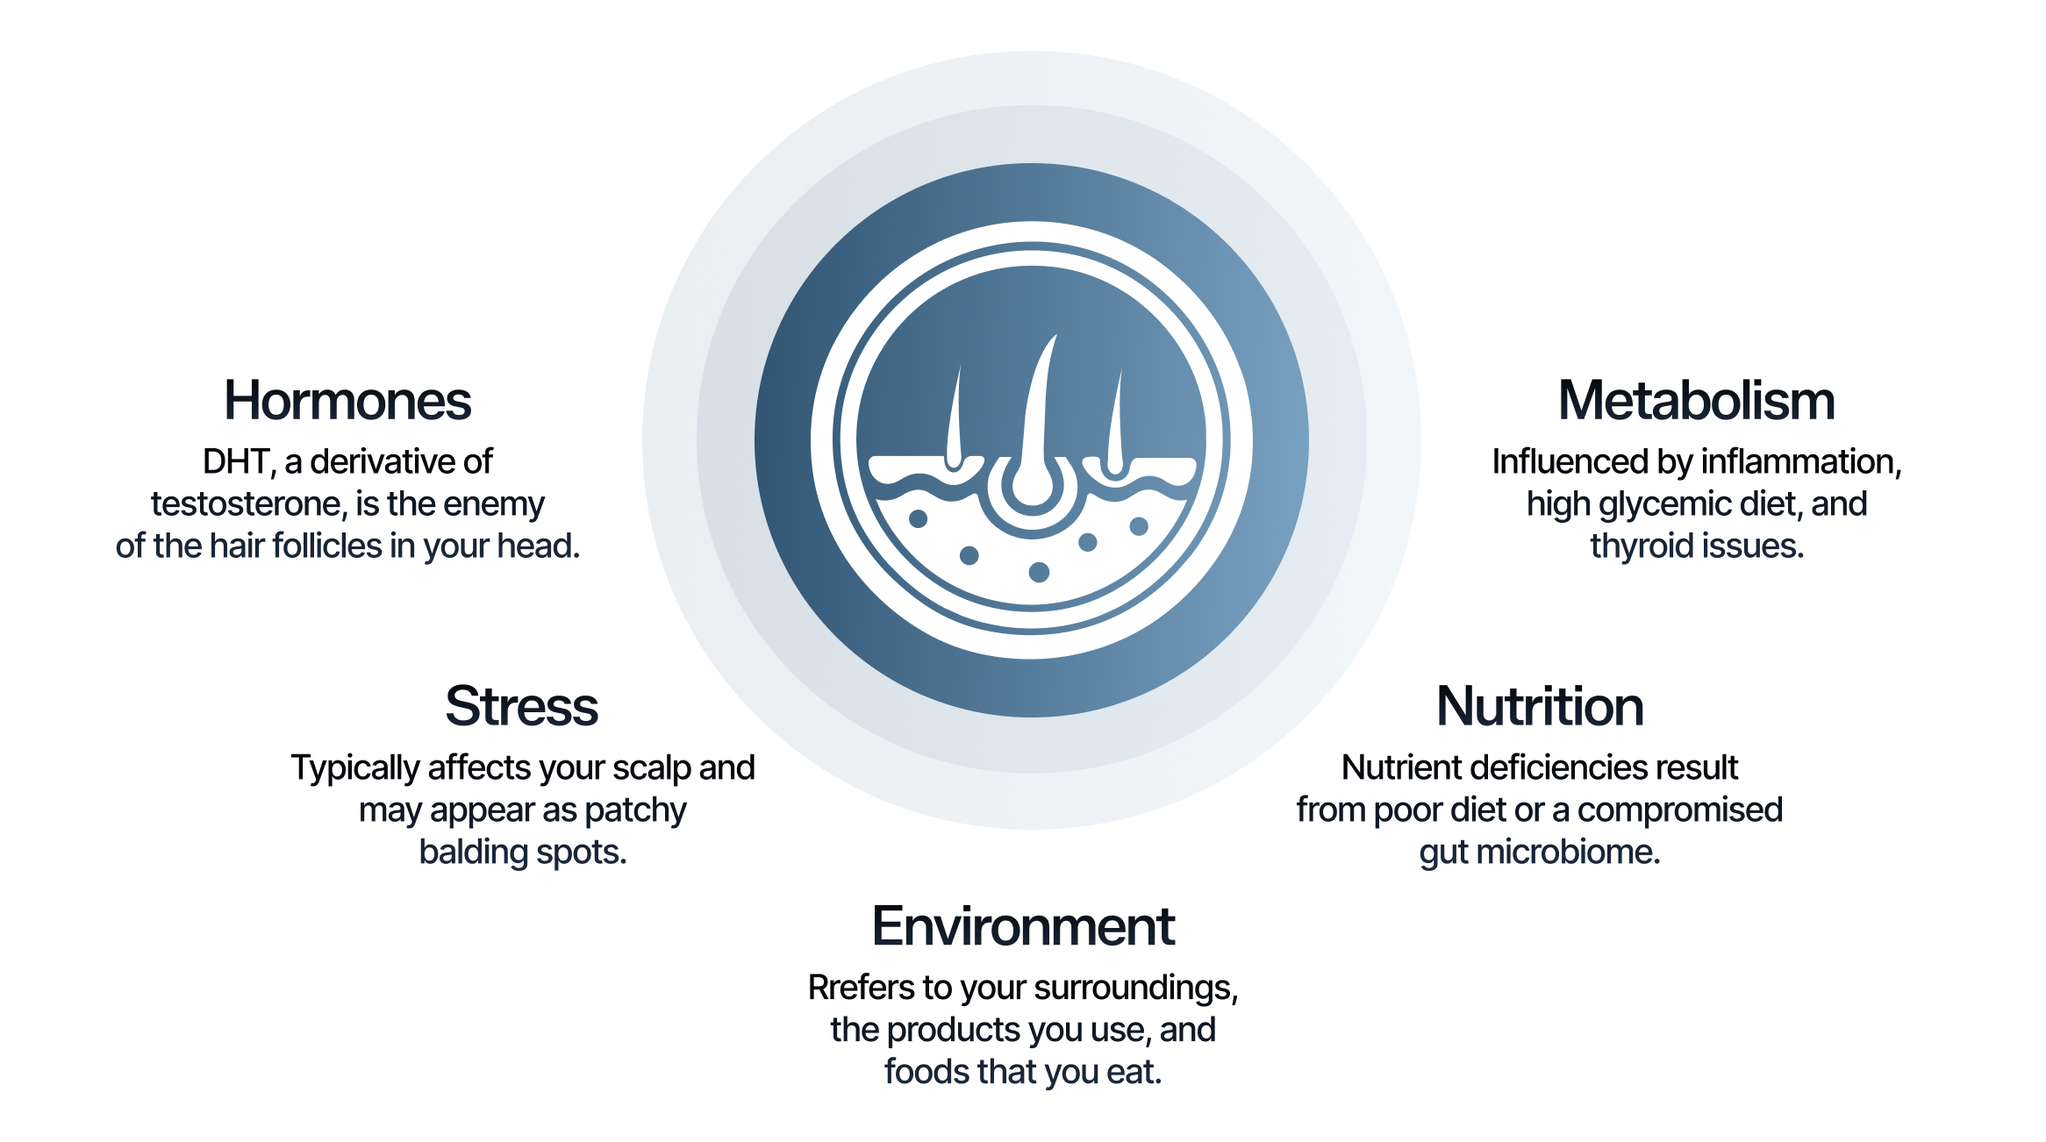
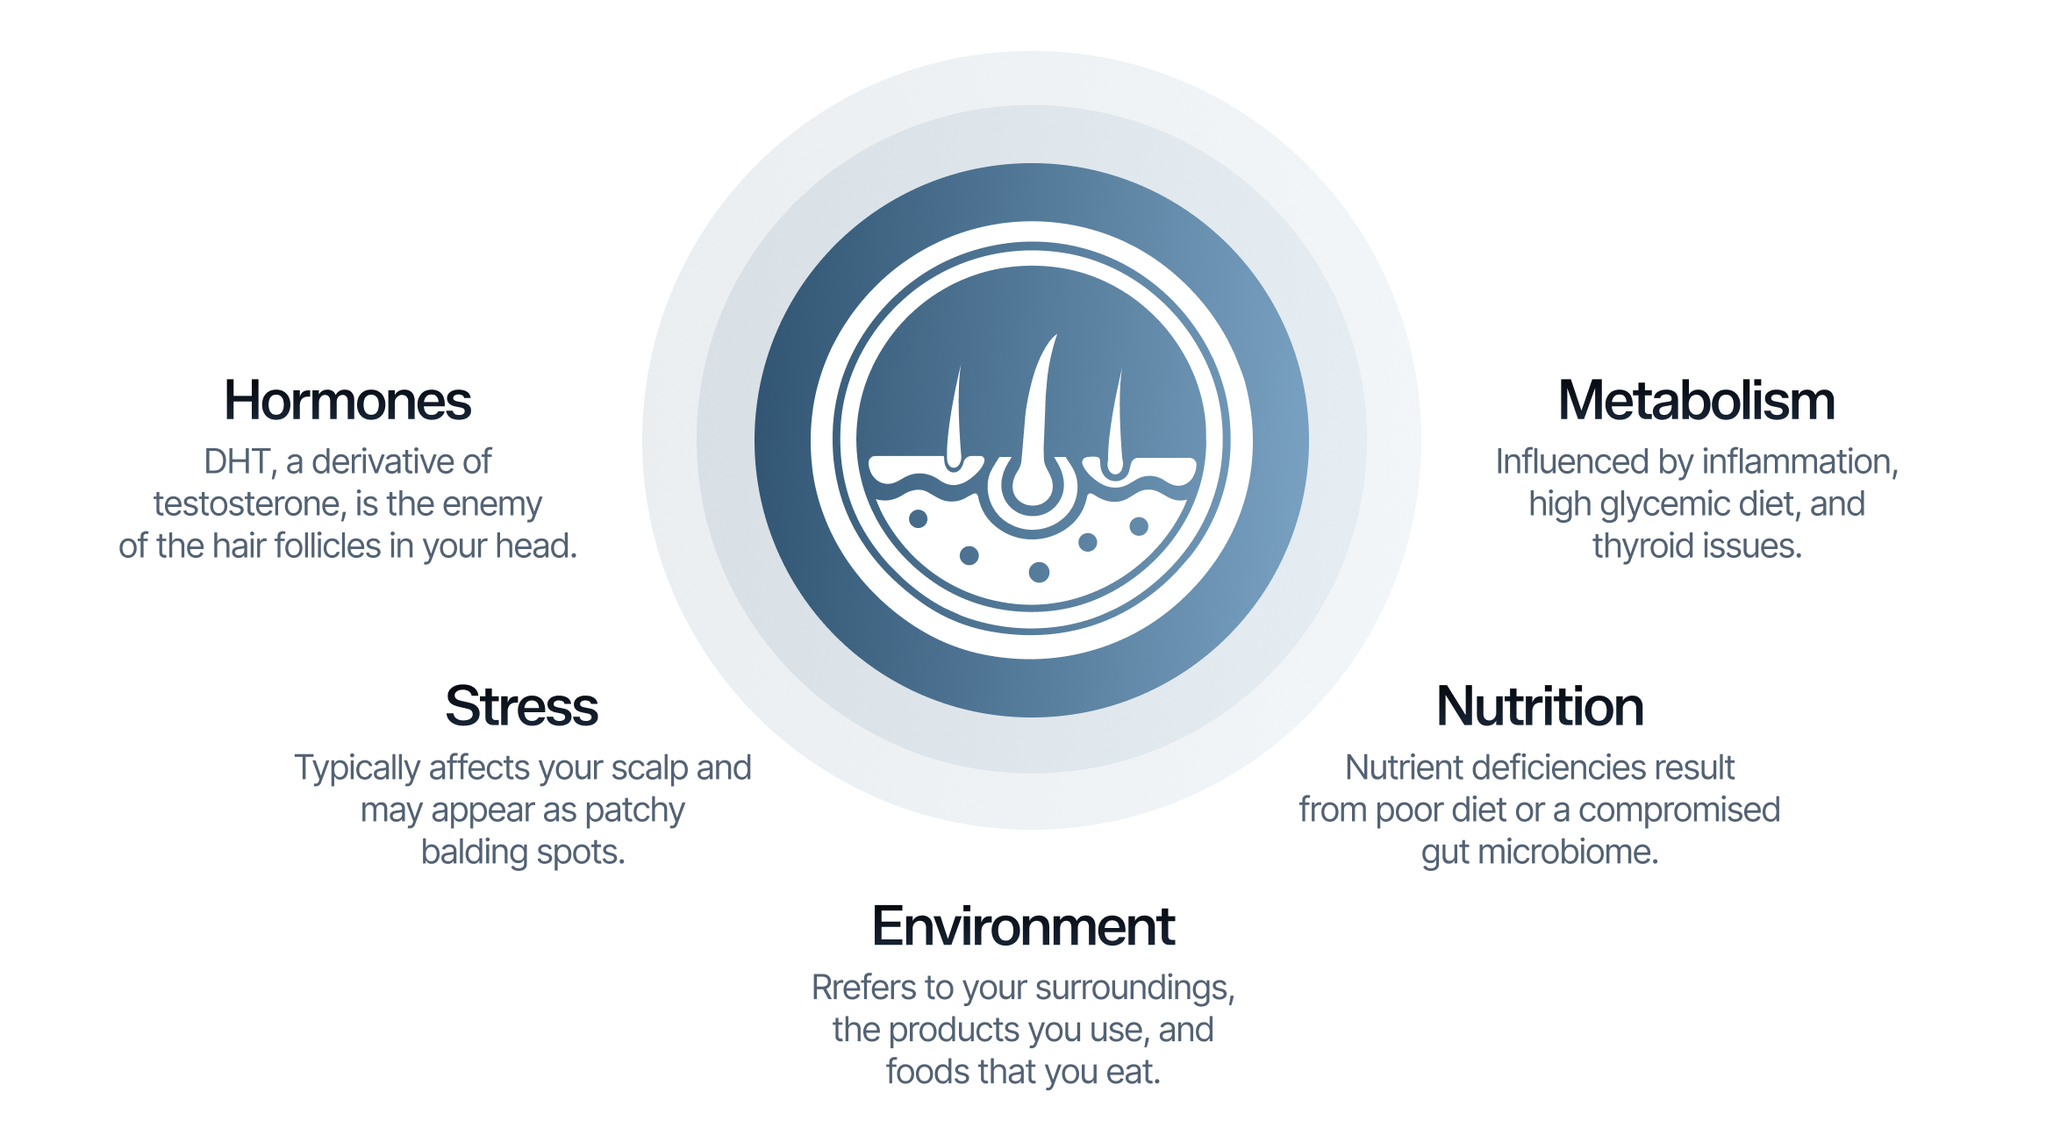
Surgery

diff --git a/src/components/aboutUs/AboutUs.jsx b/src/components/aboutUs/AboutUs.jsx
@@ -1,84 +1,140 @@
 import { scrollToContact } from "../../utils/scrollToContact";
 
 const treatments = [
-  "Hair transplant & restoration",
-  "Skin, nail & STD conditions",
-  "Advanced aesthetic & anti-ageing treatments",
-  "Plastic, cosmetic & reconstructive surgery",
+  {
+    label: "Hair transplant & restoration",
+    note: "FUE & advanced grafting techniques",
+  },
+  {
+    label: "Skin, nail & STD conditions",
+    note: "Diagnosis-led, confidential care",
+  },
+  {
+    label: "Advanced aesthetic & anti-ageing treatments",
+    note: "Non-surgical rejuvenation",
+  },
+  {
+    label: "Plastic, cosmetic & reconstructive surgery",
+    note: "Precision surgical outcomes",
+  },
+];
+
+const stats = [
+  { value: "20+", label: "Years combined clinical expertise" },
+  { value: "New Road", label: "Pokhara, easy to reach" },
+  { value: "4", label: "Specialised care disciplines" },
 ];
 
 function AboutUs() {
   return (
-    <section className="bg-[#f7f9fc] py-16 sm:py-20 lg:py-24" id="aboutUs">
-      <div className="mx-auto max-w-[1440px] px-6 sm:px-10 lg:px-16 xl:px-20">
-        
-        {/* Section Heading */}
-        <div className="mx-auto max-w-[760px] text-center">
-          <h2
-            className="font-semibold leading-[1.08] tracking-[-0.04em] text-[#0E1A2B]"
-            style={{ fontSize: "clamp(28px, 4vw, 48px)" }}
-          >
-            About <span className="text-[#527E9F]">Us.</span>
-          </h2>
+    <section className="relative overflow-hidden bg-[#f7f9fc] py-16 sm:py-20 lg:py-28" id="aboutUs">
+      {/* Ambient background accent */}
+      <div className="pointer-events-none absolute -top-24 right-0 h-[420px] w-[420px] rounded-full bg-[#527E9F]/10 blur-3xl" />
+
+      <div className="relative mx-auto max-w-[1440px] px-6 sm:px-10 lg:px-16 xl:px-20">
+
+        {/* Header row: eyebrow + heading on the left, lead statement on the right */}
+        <div className="grid grid-cols-1 gap-8 lg:grid-cols-12 lg:items-end lg:gap-6">
+          <div className="lg:col-span-6">
+            <h2
+              className="mt-4 font-semibold leading-[1.08] tracking-[-0.04em] text-[#0E1A2B]"
+              style={{ fontSize: "clamp(28px, 4vw, 48px)" }}
+            >
+              About <span className="text-[#527E9F]">Us.</span>
+            </h2>
+          </div>
         </div>
 
-        {/* Content Card */}
-        <div className="mx-auto mt-10 sm:mt-12 max-w-[960px]">
-          <div className=" p-7 sm:p-10">
-            
-            {/* Lead sentence */}
-            <p
-              className="text-[#0E2236] font-semibold leading-snug tracking-[-0.015em]"
-              style={{ fontSize: "clamp(18px, 2.2vw, 22px)" }}
-            >
-              West Valley Clinic - Pokhara&apos;s trusted name in hair transplant, skin, and aesthetic care.
+        {/* Split layout: image column + content column */}
+        <div className="mt-12 grid grid-cols-1 gap-10 lg:mt-16 lg:grid-cols-12 lg:gap-12">
+
+          {/* Image column */}
+          <div className="relative lg:col-span-5">
+            <div className="relative mx-auto max-w-[440px] lg:mx-0">
+              <div className="absolute -inset-3 -z-10 rounded-[2rem] border border-[#527E9F]/20" />
+              <div className="overflow-hidden rounded-[1.75rem]">
+                <img
+                  src="/images/about/DoctorConsultingPatientWestValley.jpg"
+                  alt="Doctor consulting with a patient at West Valley Clinic"
+                  className="h-[420px] w-full object-cover sm:h-[480px]"
+                />
+              </div>
+              {/* 20-year badge — half inside, half outside bottom-right */}
+              <img
+                src="/images/about/20yearsExperienceBatch.png"
+                alt="20 years of experience"
+                className="absolute bottom-0 right-0 h-[110px] w-[110px] translate-x-1/2 translate-y-1/2 sm:h-[128px] sm:w-[128px]"
+              />
+            </div>
+          </div>
+
+          {/* Content column */}
+          <div className="lg:col-span-7 lg:pt-2">
+            <p className="text-[15px] sm:text-[16px] leading-[1.8] text-[#536273]">
+              Located on New Road, Pokhara, we bring together experienced doctors, modern
+              technology, and a patient-first philosophy to treat you with the care you deserve.
             </p>
 
-            {/* Intro paragraph */}
-            <p className="mt-4 text-[15px] sm:text-[16px] leading-[1.8] text-[#536273]">
-              Located on New Road, Pokhara, we bring together experienced doctors, modern technology, and over 20 years of combined clinical expertise to treat you with the care you deserve.
-            </p>
+            {/* Stats strip */}
+            {/* <div className="mt-8 grid grid-cols-1 gap-4 border-y border-[#EAECEF] py-6 sm:grid-cols-3">
+              {stats.map((stat) => (
+                <div key={stat.label} className="sm:border-l sm:first:border-l-0 sm:pl-4 sm:first:pl-0">
+                  <p className="text-[20px] font-semibold tracking-[-0.02em] text-[#2D4F6F]">
+                    {stat.value}
+                  </p>
+                  <p className="mt-1 text-[12.5px] leading-snug text-[#536273]">{stat.label}</p>
+                </div>
+              ))}
+            </div> */}
 
             {/* What we treat list */}
-            <div className="mt-7">
+            <div className="mt-8">
               <h3 className="text-[13px] font-semibold tracking-wider text-[#527E9F] uppercase">
                 What we treat
               </h3>
-              <div className="mt-3 grid grid-cols-1 sm:grid-cols-2 gap-3">
-                {treatments.map((treatment) => (
+              <div className="mt-4 divide-y divide-[#EAECEF] rounded-2xl bg-white">
+                {treatments.map((treatment, index) => (
                   <div
-                    key={treatment}
-                    className="flex items-center gap-3 rounded-xl px-4 py-3"
+                    key={treatment.label}
+                    className="flex items-center gap-4 px-5 py-4 first:rounded-t-2xl last:rounded-b-2xl"
                   >
-                    <span className="flex h-2 w-2 rounded-full bg-[#527E9F] shrink-0" />
-                    <span className="text-[15px] font-medium text-[#0E2236]">
-                      {treatment}
+                    <span className="flex h-9 w-9 shrink-0 items-center justify-center rounded-full bg-[#527E9F]/10 text-[13px] font-semibold text-[#2D4F6F]">
+                      {String(index + 1).padStart(2, "0")}
                     </span>
+                    <div className="min-w-0">
+                      <p className="text-[15px] font-medium text-[#0E2236]">{treatment.label}</p>
+                      <p className="mt-0.5 truncate text-[13px] text-[#8592A3]">{treatment.note}</p>
+                    </div>
                   </div>
                 ))}
               </div>
             </div>
 
             {/* Value & philosophy */}
-            <p className="mt-7 text-[15px] sm:text-[16px] leading-[1.8] text-[#536273]">
-              Every treatment plan is built around you - your goals, your condition, your comfort. Safety, privacy, and natural results come first, always.
+            <p className="mt-8 text-[15px] sm:text-[16px] leading-[1.8] text-[#536273]">
+              Every treatment plan is built around you &mdash; your goals, your condition, your comfort.
+              Safety, privacy, and natural results come first, always.
             </p>
-
-            {/* CTA row */}
-            <div className="mt-8 pt-6 border-t border-[#EAECEF] flex flex-col sm:flex-row items-center justify-between gap-4">
-              <p className="text-[15px] sm:text-[16px] font-medium text-[#0E2236] text-center sm:text-left">
-                Ready for a change?
-              </p>
-              <button
-                onClick={scrollToContact}
-                id="about-us-book-btn"
-                className="inline-flex items-center justify-center px-7 py-3 rounded-full bg-[linear-gradient(135deg,#2D4F6F_0%,#6A97BC_100%)] text-white text-[15px] font-medium tracking-normal shadow-md hover:brightness-105 active:scale-[0.98] transition-all duration-200 cursor-pointer"
-              >
-                Book your consultation today
-              </button>
-            </div>
-
           </div>
+        </div>
+
+        {/* CTA banner */}
+        <div className="mt-14 flex flex-col items-center justify-between gap-6 rounded-3xl bg-[linear-gradient(135deg,#0E2236_0%,#2D4F6F_55%,#6A97BC_100%)] px-7 py-8 sm:flex-row sm:px-10 sm:py-9 lg:mt-16">
+          <div className="text-center sm:text-left">
+            <p className="text-[18px] font-semibold tracking-[-0.01em] text-white">
+              Ready for a change?
+            </p>
+            <p className="mt-1 text-[14px] text-white/70">
+              Book a one-on-one consultation with our specialists today.
+            </p>
+          </div>
+          <button
+            onClick={scrollToContact}
+            id="about-us-book-btn"
+            className="inline-flex shrink-0 items-center justify-center rounded-full bg-white px-7 py-3 text-[15px] font-medium tracking-normal text-[#0E2236] transition-all duration-200 hover:brightness-95 active:scale-[0.98] cursor-pointer"
+          >
+            Book your consultation today
+          </button>
         </div>
 
       </div>

diff --git a/src/pages/plastic-surgery/index.jsx b/src/pages/plastic-surgery/index.jsx
@@ -26,49 +26,49 @@ function PlasticSurgeryPage() {
 
         {/* 01 — Asian Eyelid Surgery */}
         <CardLeft
-          img="/images/plasticSurgery/asianEyelid.png"
+          img="/images/Plastic Surgery/Eyelid-Surgery-Nepal.webp"
           title="Asian Eyelid Surgery"
           description="Asian eyelid surgery is a specialised approach to upper-eyelid anatomy, with each procedure planned according to individual eyelid structure and facial proportions. Procedures include double eyelid surgery (incisional and non-incisional), epicanthoplasty, ptosis correction and eyelid revision. The goal is a natural-looking eyelid contour that preserves your individual facial characteristics."
         />
 
         {/* 02 — Blepharoplasty */}
         <CardRight
-          img="/images/plasticSurgery/blepharoplasty.png"
+          img="/images/Plastic Surgery/blepharoplastyPokharaNepal.jpg"
           title="Blepharoplasty"
           description="Blepharoplasty addresses excess skin, fat and tissue changes around the upper and lower eyelids. Options include upper blepharoplasty, lower blepharoplasty, combined upper and lower correction, under-eye fat repositioning and revision surgery. Treatment is personalised according to eyelid anatomy, skin quality and the degree of change present."
         />
 
         {/* 03 — Rhinoplasty */}
         <CardLeft
-          img="/images/plasticSurgery/rhinoplasty.png"
+          img="/images/Plastic Surgery/Rhinoplasty-PokharaNepal.jpg"
           title="Rhinoplasty"
           description="Rhinoplasty can address both aesthetic and structural concerns of the nose. Our approach focuses on creating a nose that is proportionate to the overall face while considering nasal function. Procedures range from primary and structural rhinoplasty to tip refinement, dorsal augmentation, alar reduction, hump reduction, deviated nose correction, functional rhinoplasty and revision rhinoplasty. Surgical planning is based on nasal structure, facial proportions, skin characteristics and your individual goals."
         />
 
         {/* 04 — Facelift */}
         <CardRight
-          img="/images/plasticSurgery/facelift.png"
+          img="/images/Plastic Surgery/FaceliftSurgeryWestvalleyPokharaNEpal.webp"
           title="Facelift Surgery"
           description="Facelift surgery addresses age-related changes such as facial laxity, jowling and loss of jawline definition. Procedures include facelift, mini facelift, lower face lift, neck lift, brow and forehead lift, and facial fat grafting. The aim is to restore facial contours and a refreshed appearance while maintaining natural facial expression and proportion."
         />
 
         {/* 05 — Breast Surgery */}
         <CardLeft
-          img="/images/plasticSurgery/breastSurgery.png"
+          img="/images/Plastic Surgery/BrestSurgeryNepalPokhara.jpg"
           title="Breast Surgery"
           description="Breast surgery is planned around individual body proportions, breast anatomy, skin quality and personal goals. Procedures include breast augmentation, breast reduction, breast lift and mastopexy, asymmetry correction, implant revision and gynecomastia surgery. A detailed consultation helps determine the most appropriate surgical approach for each patient."
         />
 
         {/* 06 — Body Contouring */}
         <CardRight
-          img="/images/plasticSurgery/bodyContouring.png"
+          img="/images/Plastic Surgery/Body-Contouring-in-NepalPokhara.jpg"
           title="Body Contouring"
           description="Body contouring surgery addresses localised fat, excess skin and changes in body shape associated with ageing, pregnancy or significant weight loss. Procedures include liposuction, abdominal liposuction, waist and flank contouring, arm and thigh contouring, abdominoplasty, post-weight-loss body contouring and male chest contouring. Treatment is selected according to body anatomy, skin elasticity and your goals."
         />
 
         {/* 07 — Reconstructive & Corrective Surgery */}
         <CardLeft
-          img="/images/plasticSurgery/reconstructive.png"
+          img="/images/Plastic Surgery/plastic-reconstructive-surgery.webp"
           title="Reconstructive & Corrective Surgery"
           description="Plastic surgery plays an important role in restoring appearance and function following injury, previous surgery, scarring or selected congenital conditions. Procedures include scar revision, post-trauma reconstruction, soft-tissue reconstruction, post-surgical correction, selected congenital deformity correction and corrective revision procedures. Each case requires individual assessment and a treatment plan specific to the patient's condition."
         />

diff --git a/src/features/plasticSurgery/testimonial/testimonialContent.js b/src/features/plasticSurgery/testimonial/testimonialContent.js
@@ -1,17 +1,32 @@
 export const testimonialContent = [
   {
-    text: "I had rhinoplasty at West Valley and the result is exactly what I hoped for — natural, proportionate and well-planned from the very first consultation. The surgeon took time to understand what I actually wanted.",
-    name: "Priya Maharjan",
+    review: "I had rhinoplasty at West Valley and the result is exactly what I hoped for — natural, proportionate and well-planned from the very first consultation. The surgeon took time to understand what I actually wanted.",
+    reviewUser: "Priya Maharjan",
     role: "Rhinoplasty Patient",
   },
   {
-    text: "After my blepharoplasty I finally look as rested as I feel. The procedure was explained clearly, recovery was smoother than I expected, and the outcome speaks for itself.",
-    name: "Rajan Thapa",
+    review: "After my blepharoplasty I finally look as rested as I feel. The procedure was explained clearly, recovery was smoother than I expected, and the outcome speaks for itself.",
+    reviewUser: "Rajan Thapa",
     role: "Blepharoplasty Patient",
   },
   {
-    text: "I chose West Valley for breast reduction and could not have made a better decision. The care throughout — from consultation to follow-up — was thorough and genuinely patient-centred.",
-    name: "Sunita Karki",
+    review: "I chose West Valley for breast reduction and could not have made a better decision. The care throughout — from consultation to follow-up — was thorough and genuinely patient-centred.",
+    reviewUser: "Sunita Karki",
     role: "Breast Surgery Patient",
+  },
+  {
+    review: "After my mastectomy, my self-confidence took a massive hit and I struggled with my body image. But from the very first detailed consultation, the surgeon made me feel completely heard. They didn't just offer a generic solution; they planned the surgery around my specific anatomy and aesthetic goals. I feel like myself again and have fully regained my confidence. Thank you to the entire team.",
+    reviewUser: "Shristi Shrestha",
+    role: "Breast Reconstruction Patient",
+  },
+  {
+    review: "The best thing about having my facial reconstructive surgery here was how incredibly thorough the clinical assessment was. They took the time to understand both my functional needs and my medical suitability before we even discussed the procedure. I reached out to them several times during my recovery with questions, and they answered every single time and reassured me.",
+    reviewUser: "Roshan Adhikari",
+    role: "Facial Reconstructive Patient",
+  },
+  {
+    review: "The entire body contouring process was made easy and stress-free. I had always been self-conscious about my midsection, but from the initial consultation to the actual procedure, the team was very professional and knowledgeable. They designed a treatment plan completely tailored to my individual anatomy. The results were fantastic and exactly what we planned!",
+    reviewUser: "Karishma Thapa",
+    role: "Body Contouring Patient",
   },
 ];

diff --git a/src/components/cardLeft/CardLeft.jsx b/src/components/cardLeft/CardLeft.jsx
@@ -9,10 +9,10 @@ function CardLeft({
 }) {
   return (
     <div className="app-layout pt-10 bg-neutral-50">
-      <div className="p-8 lg:p-10 lg:grid lg:grid-cols-2 gap-8 lg:gap-12 items-center bg-white rounded-3xl border border-[#EAECEF]">
+      <div className="p-8 lg:p-10 lg:grid lg:grid-cols-2 gap-8 lg:gap-12 items-center bg-white rounded-3xl ">
         <div className="flex justify-center lg:block">
           <div
-            className="border border-[#EAECEF] w-full max-w-[500px] h-[280px] sm:h-[340px] lg:h-[360px]"
+            className="w-full max-w-[500px] h-[280px] sm:h-[340px] lg:h-[360px]"
             style={{
               borderRadius: "16px 22px 22px 108px",
               overflow: "hidden",

diff --git a/src/features/hairTransplant/hairLossCause/HairLossCause.jsx b/src/features/hairTransplant/hairLossCause/HairLossCause.jsx
@@ -1,4 +1,5 @@
 import Image from "next/image";
+import hairLossCausesImg from "../../../../public/images/hairTransplant/hairLossCauses.png";
 
 function HairLossCause() {
   return (
@@ -24,10 +25,8 @@ function HairLossCause() {
         {/* Root Causes Graphic */}
         <div className="mx-auto mt-12 flex max-w-[1050px] items-center justify-center sm:mt-16">
           <Image
-            src="/images/hairTransplant/hairLossCauses.png"
+            src={hairLossCausesImg}
             alt="Hair loss has multiple root causes"
-            width={2332}
-            height={1302}
             priority
             className="h-auto w-full max-w-[950px] object-contain"
           />

diff --git a/src/features/plasticSurgery/services/Services.jsx b/src/features/plasticSurgery/services/Services.jsx
@@ -12,7 +12,7 @@ function Services() {
           and medical suitability.
         </p>
 
-        <div className="mt-8 grid grid-cols-1 sm:grid-cols-2 gap-4 text-neutral-700">
+        {/* <div className="mt-8 grid grid-cols-1 sm:grid-cols-2 gap-4 text-neutral-700">
           {[
             {
               title: "Asian Eyelid Surgery",
@@ -54,7 +54,7 @@ function Services() {
               </div>
             </div>
           ))}
-        </div>
+        </div> */}
       </div>
     </div>
   );

diff --git a/src/components/cardRight/CardRight.jsx b/src/components/cardRight/CardRight.jsx
@@ -12,7 +12,7 @@ function CardRight({
 }) {
   return (
     <div className="app-layout pt-10 bg-neutral-50">
-      <div className="p-8 lg:p-10 lg:grid lg:grid-cols-2 lg:gap-12 items-center bg-white rounded-3xl border border-[#EAECEF]">
+      <div className="p-8 lg:p-10 lg:grid lg:grid-cols-2 lg:gap-12 items-center bg-white rounded-3xl ">
         <div>
           {tag && (
             <div className="inline-block px-3 py-1 mb-3 rounded-full bg-[#EBF3F8] text-[#2D4F6F] text-[12px] font-semibold">
